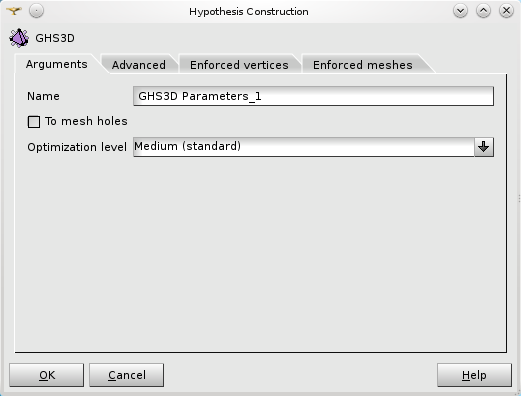
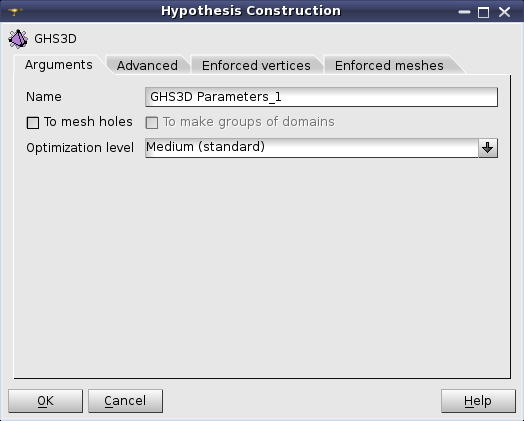
0022172: [CEA 790] create the groups corresponding to domains
"To make groups of domains" option has been added.

Changed region(s): [[0.0, 0.0, 1.0, 1.0]]

diff --git a/src/GUI/GHS3DPlugin_msg_en.ts b/src/GUI/GHS3DPlugin_msg_en.ts
@@ -32,6 +32,10 @@
         <translation>To mesh holes</translation>
     </message>
     <message>
+        <source>GHS3D_TO_MAKE_DOMAIN_GROUPS</source>
+        <translation>To make groups of domains</translation>
+    </message>
+    <message>
         <source>INIT_MEMORY_SIZE</source>
         <translation>Initial memory size</translation>
     </message>

diff --git a/src/GUI/GHS3DPluginGUI_HypothesisCreator.h b/src/GUI/GHS3DPluginGUI_HypothesisCreator.h
@@ -140,7 +140,7 @@ typedef std::set< TEnfMesh*, CompareEnfMeshes > TEnfMeshList;
 
 typedef struct
 {
-  bool    myToMeshHoles,myKeepFiles,myToCreateNewNodes,myBoundaryRecovery,myFEMCorrection,myRemoveInitialCentralPoint;
+  bool    myToMeshHoles,myToMakeGroupsOfDomains,myKeepFiles,myToCreateNewNodes,myBoundaryRecovery,myFEMCorrection,myRemoveInitialCentralPoint;
   int     myMaximumMemory,myInitialMemory,myOptimizationLevel;
   QString myName,myWorkingDir,myTextOption;
   double  myGradation;
@@ -173,6 +173,7 @@ protected:
   virtual QString  type() const;
 
 protected slots:
+  void                onToMeshHoles(bool);
   void                onDirBtnClicked();
   void                updateWidgets();
   
@@ -209,6 +210,7 @@ private:
   QWidget*            myStdGroup;
   QLineEdit*          myName;
   QCheckBox*          myToMeshHolesCheck;
+  QCheckBox*          myToMakeGroupsOfDomains;
   QComboBox*          myOptimizationLevelCombo;
 
   QWidget*            myAdvGroup;
